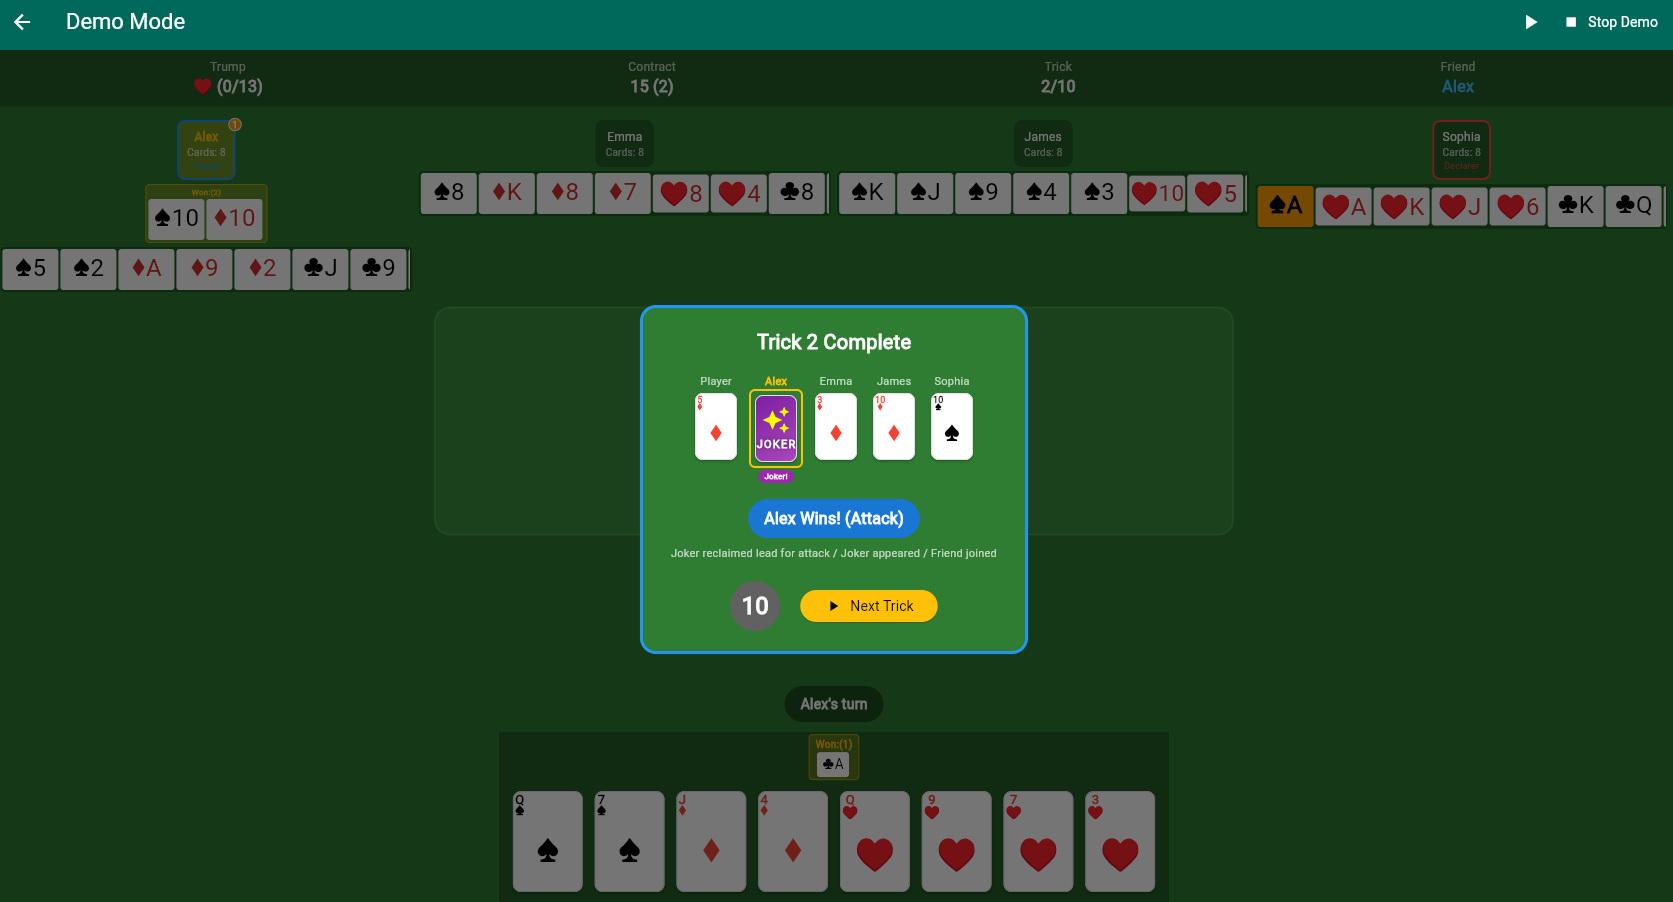
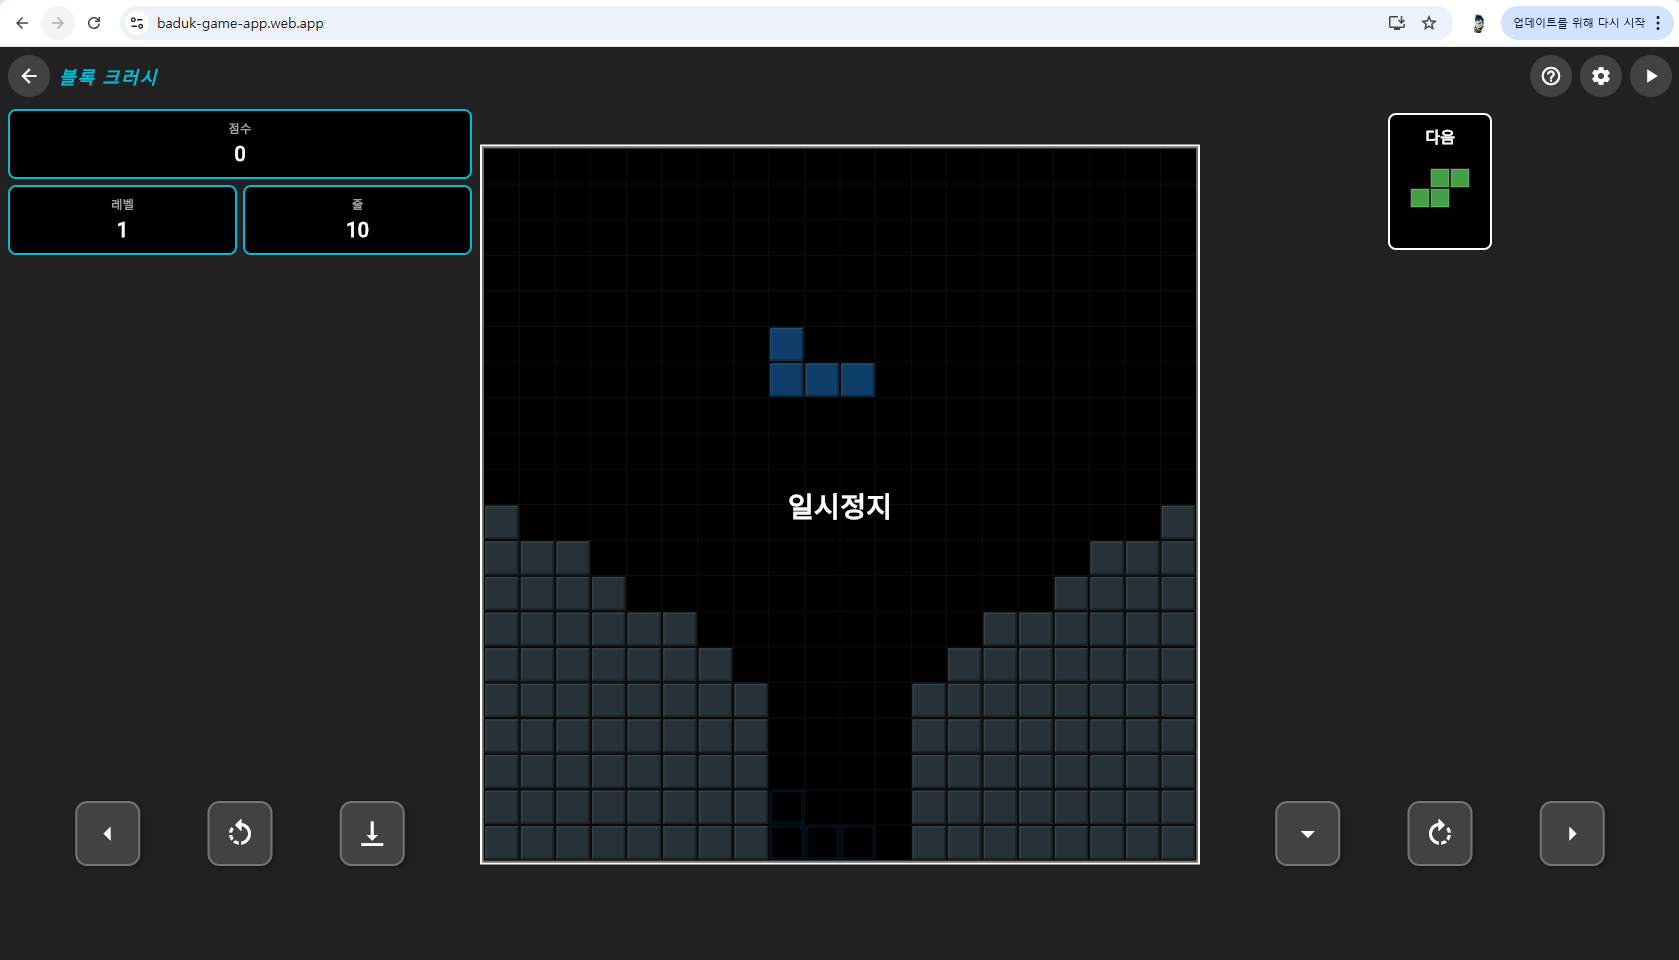
프렌드 유도 표시 오류 수정, 선 교환 강화, 예상점수 저액 기루다 보정
- 프렌드 이미 공개 시 "프렌드 유도" 대신 "기루다 소진 유도" 표시
- 주공 기루다 선공 → 수비 상위 기루다 방어 outcome 추가
- 선 교환: 기루다 1장 + 수비 고액 기루다 시 기루다 컷 탈환 비신뢰
- 예상점수: 저액 기루다 과대평가 보정 (DB 분석 기반)

diff --git a/lib/card_game/services/ai_player.dart b/lib/card_game/services/ai_player.dart
@@ -1476,14 +1476,22 @@ class AIPlayer {
         }
       }
 
-      if (gc.length >= 5 && gA) { maxTricks += 2; }
+      // ★ 저액 기루다(2-9)는 후반 지배력이 약함: 상대 고액 기루다에 패배 위험
+      // DB 분석: 기루다 4장 중 고액(J+) 1장일 때 평균 7.18트릭, 2장 7.64트릭
+      final int girudaHighCount = gc.where((c) =>
+          c.rank == Rank.ace || c.rank == Rank.king ||
+          c.rank == Rank.queen || c.rank == Rank.jack).length;
+      final int girudaLowCount = gc.length - girudaHighCount;
+      final bool mostlyLowGiruda = gc.length >= 4 && girudaLowCount >= (gc.length * 0.7).ceil();
+
+      if (gc.length >= 5 && gA) { maxTricks += mostlyLowGiruda ? 1 : 2; }
       else if (gc.length >= 4 && gA) { maxTricks++; }
       if (gc.length >= 6 && gA) { maxTricks++; }
 
       if (!gA && gK) {
         if (gc.length >= 5) {
           minTricks++;
-          maxTricks += 2;
+          maxTricks += mostlyLowGiruda ? 1 : 2;
         } else if (gc.length >= 4) {
           maxTricks++;
         }
@@ -1492,9 +1500,9 @@ class AIPlayer {
 
       if (!gA && !gK && gQ) {
         if (gc.length >= 5) {
-          maxTricks += 2; // Q가 AK 이후 1트릭 + 장수 우위 1트릭
+          maxTricks += mostlyLowGiruda ? 1 : 2;
         } else if (gc.length >= 4) {
-          maxTricks++; // Q가 AK 이후 1트릭
+          maxTricks++;
         }
       }
     }
@@ -1643,7 +1651,13 @@ class AIPlayer {
       int extraGiruda = girudaLen - girudaTopCount;
       bool hasFriendChain = friendChainActive || friendAceChainActive;
       int netExtra = extraGiruda - (hasFriendChain ? 1 : 0);
-      if (netExtra >= 2) {
+      // ★ 저액 기루다만으로 2트릭 확보는 비현실적 (마이티/조커 없으면 할인)
+      final extraHighCount = gc.where((c) =>
+          c.rank != Rank.ace && c.rank != Rank.king && c.rank != Rank.queen &&
+          c.rankValue >= 11).length; // J만 해당
+      if (netExtra >= 2 && extraHighCount == 0 && !hasMighty && !hasJoker) {
+        initTricks++; // 2 대신 1만 추가
+      } else if (netExtra >= 2) {
         initTricks += 2;
       } else if (netExtra >= 1) {
         initTricks++;
@@ -3819,7 +3833,7 @@ class AIPlayer {
             if (mightySuitCards.isNotEmpty) {
               // 마이티 무늬의 낮은 카드로 선공하여 프렌드에게 선 넘기기
               mightySuitCards.sort((a, b) => a.rankValue.compareTo(b.rankValue));
-              _lastLeadIntent = LeadIntent.declarerFriendLure;
+              _lastLeadIntent = state.friendRevealed ? LeadIntent.waste : LeadIntent.declarerFriendLure;
               return mightySuitCards.first;
             }
           }
@@ -3923,7 +3937,12 @@ class AIPlayer {
       }
       final int nonGirudaSuitTotal = Suit.values.where((s) => s != giruda).length;
       final int voidSuitCount = nonGirudaSuitTotal - myNonGirudaSuits.length;
-      final hasGirudaCutRecapture = myGirudaCards.isNotEmpty && voidSuitCount >= 1;
+      // ★ 기루다 컷 탈환: 기루다 1장 + 수비 고액 기루다 보유 시 오버컷 위험
+      // 기루다 2장 이상이거나, 내 최고 기루다가 수비 최고보다 높을 때만 신뢰
+      final int myHighestGirudaRV = myGirudaCards.isEmpty ? 0
+          : myGirudaCards.map((c) => c.rankValue).reduce((a, b) => a > b ? a : b);
+      final hasGirudaCutRecapture = myGirudaCards.isNotEmpty && voidSuitCount >= 1 &&
+          (myGirudaCards.length >= 2 || myHighestGirudaRV > opponentHighestGiruda);
       final hasRecaptureMeans = hasJokerForRecapture || hasGirudaCutRecapture || hasMightyForRecapture;
 
       // ★ 보증 승리 카드 수 기반 물패 타이밍 결정
@@ -7509,6 +7528,80 @@ class AIPlayer {
           girudaCards.sort((a, b) => a.rankValue.compareTo(b.rankValue));
           return girudaCards.first;
         } else {
+          // === 수비팀 최상위 기루다 보존: 저가치 트릭에서 아끼고 후속 트릭에서 활용 ===
+          // 조건: 수비팀 + 확인된 최상위 기루다 + 주공에게 기루다 잔존 + 저가치 트릭 + 남은 트릭 2+
+          // 효과: 주공의 미래 기루다 컷을 차단하고 리드권 확보
+          if (isDefenseTeam && state.currentTrickNumber <= 8) {
+            final myNonMightyGiruda = girudaCards
+                .where((c) => !c.isMightyWith(state.giruda))
+                .toList();
+            if (myNonMightyGiruda.isNotEmpty) {
+              myNonMightyGiruda.sort((a, b) =>
+                  b.rankValue.compareTo(a.rankValue));
+              final myTopGiruda = myNonMightyGiruda.first;
+
+              // 내 최고 기루다가 남은 기루다 중 최상위인지 확인
+              final allPlayed = _getPlayedCards(state);
+              bool isTopRemainingGiruda = true;
+              for (int rv = myTopGiruda.rankValue + 1; rv <= 14; rv++) {
+                final rank = Rank.values[rv - 2];
+                bool gone = allPlayed.any((c) =>
+                        !c.isJoker &&
+                        c.suit == state.giruda &&
+                        c.rank == rank) ||
+                    state.currentTrick!.cards.any((c) =>
+                        !c.isJoker &&
+                        c.suit == state.giruda &&
+                        c.rank == rank) ||
+                    player.hand.any((c) =>
+                        !c.isJoker &&
+                        c.suit == state.giruda &&
+                        c.rank == rank);
+                if (!gone) {
+                  isTopRemainingGiruda = false;
+                  break;
+                }
+              }
+
+              if (isTopRemainingGiruda) {
+                // 주공에게 남은 기루다가 있는지 확인
+                final opponentGirudaCount =
+                    _getRemainingGirudaCount(state, player);
+                // 현재 트릭 점수카드 수 (저가치 판별)
+                int trickPointCards = state.currentTrick!.cards
+                    .where((c) => c.isPointCard || c.isJoker)
+                    .length;
+                int remainingTricks = 10 - state.currentTrickNumber;
+
+                // 주공에게 기루다 잔존 + 저가치 트릭 + 남은 트릭 2이상 → 보존
+                if (opponentGirudaCount > 0 &&
+                    trickPointCards <= 1 &&
+                    remainingTricks >= 2) {
+                  // 비기루다 물패로 대응
+                  final nonGirudaDump = playableCards
+                      .where((c) =>
+                          !c.isJoker &&
+                          !c.isMightyWith(state.giruda) &&
+                          c.suit != state.giruda)
+                      .toList();
+                  if (nonGirudaDump.isNotEmpty) {
+                    final nonPointDump = nonGirudaDump
+                        .where((c) => !c.isPointCard)
+                        .toList();
+                    if (nonPointDump.isNotEmpty) {
+                      nonPointDump.sort(
+                          (a, b) => a.rankValue.compareTo(b.rankValue));
+                      return nonPointDump.first;
+                    }
+                    nonGirudaDump.sort(
+                        (a, b) => a.rankValue.compareTo(b.rankValue));
+                    return nonGirudaDump.first;
+                  }
+                }
+              }
+            }
+          }
+
           // 내 팀이 지고 있으면 이길 수 있는 최소의 기루다로 컷
           girudaCards.sort((a, b) => a.rankValue.compareTo(b.rankValue)); // 낮은 순
 

diff --git a/lib/card_game/screens/game_screen.dart b/lib/card_game/screens/game_screen.dart
@@ -3588,7 +3588,20 @@ class _GameScreenState extends State<GameScreen> {
               // 후반(7-10트릭) 수비 승리 3회 이상 + 초반은 선전 → 기루다/프렌드 조기 소진
               keyEvents.add(l10n.summaryLateLeadLostGirudaExhaust);
             } else {
-              keyEvents.add(l10n.summaryJokerMightyLost);
+              // 수비가 고점 트릭(3점+)을 선방했는지 확인
+              int defHighValueTricks = 0;
+              for (final t in state.tricks) {
+                if (t.winnerId != null && !isAttack(t.winnerId!)) {
+                  final trickPts = t.cards.where((c) => !c.isJoker && c.isPointCard).length;
+                  if (trickPts >= 3) defHighValueTricks++;
+                }
+              }
+              if (defHighValueTricks >= 1) {
+                // 수비가 고점 트릭을 1회 이상 선방 → 핵심 원인
+                keyEvents.add(l10n.summaryDefenseHighValueBlock);
+              } else {
+                keyEvents.add(l10n.summaryJokerMightyLost);
+              }
             }
           }
         }
@@ -3742,7 +3755,11 @@ class _GameScreenState extends State<GameScreen> {
     // Lead card description
     bool leadDescribed = false;
     if (trick.leadIntent != null) {
-      final leadDesc = _describeLeadFromIntent(trick, state, l10n);
+      // topGirudaLead 검증: AI가 설정했지만 실제로는 최상위가 아닐 수 있음
+      final bool topGirudaOverride = trick.leadIntent == LeadIntent.topGirudaLead &&
+          !leadCard.isJoker && leadCard.suit != null &&
+          leadCard.rankValue < 14 && !isTopOfSuit(leadCard.suit!, leadCard.rankValue);
+      final leadDesc = topGirudaOverride ? null : _describeLeadFromIntent(trick, state, l10n);
       if (leadDesc != null) {
         parts.add(leadDesc);
         leadDescribed = true;
@@ -4193,6 +4210,24 @@ class _GameScreenState extends State<GameScreen> {
     }
     } // end if (!leadDescribed)
 
+    // Outcome: 주공 기루다 선공 → 수비 상위 기루다로 방어 (leadDescribed인 경우 보완)
+    if (leadDescribed && giruda != null && isAttack(leadId) &&
+        !leadCard.isJoker && leadCard.suit == giruda &&
+        trick.winnerId != null && !isAttack(trick.winnerId!)) {
+      final defWinIdx = trick.playerOrder.indexOf(trick.winnerId!);
+      if (defWinIdx >= 0 && defWinIdx < trick.cards.length) {
+        final defWinCard = trick.cards[defWinIdx];
+        if (!defWinCard.isJoker && defWinCard.suit == giruda && defWinCard.rankValue > leadCard.rankValue) {
+          final ptCount = trick.cards.where((c) => !c.isJoker && c.isPointCard).length;
+          if (ptCount > 0) {
+            parts.add(l10n.trickEventDefenseTopCardDefend);
+          } else {
+            parts.add(l10n.trickEventDefenseHighCardDefend);
+          }
+        }
+      }
+    }
+
     // 조커콜 선언 (leadIntent로 리드 설명에 포함되지 않은 경우만)
     if (trick.jokerCall == JokerCallType.jokerCall && trick.leadIntent != LeadIntent.jokerCallLead) {
       parts.add(l10n.trickEventJokerCallDeclared);
@@ -4518,6 +4553,22 @@ class _GameScreenState extends State<GameScreen> {
     return parts.isNotEmpty ? parts.join(' / ') : null;
   }
 
+  /// 현재 트릭 이전에 프렌드 카드가 이미 출현했는지 확인
+  bool _isFriendRevealedBefore(Trick trick, GameState state) {
+    final fCard = state.friendDeclaration?.card;
+    if (fCard == null) return false;
+    for (final t in state.tricks) {
+      if (t.trickNumber >= trick.trickNumber) break;
+      for (final c in t.cards) {
+        if (!fCard.isJoker && !c.isJoker && c.suit == fCard.suit && c.rank == fCard.rank) {
+          return true;
+        }
+        if (fCard.isJoker && c.isJoker) return true;
+      }
+    }
+    return false;
+  }
+
   /// Intent 기반 리드 설명 생성 (AI 선공 의도 → l10n 문자열)
   String? _describeLeadFromIntent(Trick trick, GameState state, AppLocalizations l10n) {
     final intent = trick.leadIntent;
@@ -4575,6 +4626,13 @@ class _GameScreenState extends State<GameScreen> {
       case LeadIntent.lowGirudaFriendPass:
         // 주공 선공이면 프렌드 유도, 프렌드 선공이면 선 넘김/유지
         if (trick.leadPlayerId == state.declarerId) {
+          // 프렌드가 이미 공개된 경우 "프렌드 유도"가 아닌 기루다 선공으로 표시
+          final lgfpFriendAlready = _isFriendRevealedBefore(trick, state);
+          if (lgfpFriendAlready) {
+            final lgfpAttWon = trick.winnerId != null &&
+                (trick.winnerId == state.declarerId || trick.winnerId == state.friendId);
+            return lgfpAttWon ? l10n.trickEventMidGirudaLead : l10n.trickEventMidGirudaExhaust;
+          }
           return l10n.trickEventDeclarerFriendLure;
         }
         // 선공자가 직접 이기면 선 유지
@@ -4644,6 +4702,13 @@ class _GameScreenState extends State<GameScreen> {
       case LeadIntent.firstTrickWaste:
         return l10n.trickEventFirstTrickWaste;
       case LeadIntent.declarerFriendLure:
+        // 프렌드가 이미 공개된 경우 "프렌드 유도"가 아닌 기루다 선공으로 표시
+        final dflFriendAlready = _isFriendRevealedBefore(trick, state);
+        if (dflFriendAlready) {
+          final dflAttWon = trick.winnerId != null &&
+              (trick.winnerId == state.declarerId || trick.winnerId == state.friendId);
+          return dflAttWon ? l10n.trickEventMidGirudaLead : l10n.trickEventMidGirudaExhaust;
+        }
         return l10n.trickEventDeclarerFriendLure;
       case LeadIntent.defenseMightyExhaust:
         return l10n.trickEventDefenseMightyExhaust;

diff --git a/lib/card_game/services/game_controller.dart b/lib/card_game/services/game_controller.dart
@@ -441,6 +441,37 @@ class GameController extends ChangeNotifier {
     if (_state.declarerId != 0) return;
     if (discardCards.length != 3) return;
 
+    // Tracking: 키티 스냅샷 생성 (selectKitty 호출 전에 원본 키티 저장)
+    final originalGiruda = _state.giruda;
+    final kittyCards = List<PlayingCard>.from(_state.kitty);
+    final declarer = _state.players[0];
+    final allCards = [...declarer.hand, ...kittyCards];
+    final finalHand = allCards.where((c) => !discardCards.contains(c)).toList();
+    finalHand.sort((a, b) {
+      if (a.isJoker) return -1;
+      if (b.isJoker) return 1;
+      if (a.suit != b.suit) return a.suit!.index.compareTo(b.suit!.index);
+      return b.rankValue.compareTo(a.rankValue);
+    });
+    final kittyPointCards = kittyCards.where((c) => c.isPointCard).length;
+    final (postMin, postMax) = _aiPlayer.estimatePointRange(finalHand, newGiruda);
+    final postOptimal = (postMin * 0.3 + postMax * 0.7 + 1).round().clamp(postMin, postMax);
+    _kittySnapshot = KittySnapshot(
+      kittyCards: kittyCards.map((c) => c.toJson()).toList(),
+      kittyPointCards: kittyPointCards,
+      discardCards: discardCards.map((c) => c.toJson()).toList(),
+      finalHand: finalHand.map((c) => c.toJson()).toList(),
+      girudaChanged: newGiruda != originalGiruda,
+      originalGiruda: originalGiruda?.name,
+      newGiruda: newGiruda?.name,
+      postKittyMin: postMin,
+      postKittyMax: postMax,
+      postKittyOptimal: postOptimal,
+    );
+    for (var snap in _bidSnapshots) {
+      if (snap.playerId == _state.declarerId) snap.isDeclarer = true;
+    }
+
     _state.selectKitty(discardCards, newGiruda);
     if (isFull) {
       _state.declareFull();
